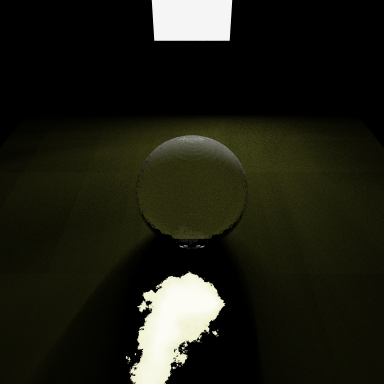
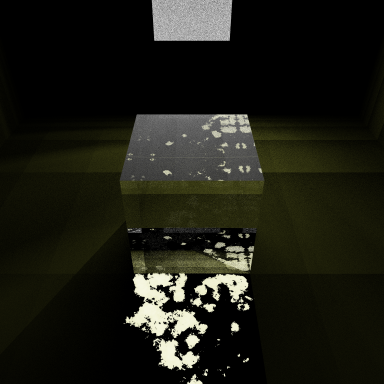
Added (back)projection

diff --git a/projection/plane.cpp b/projection/plane.cpp
@@ -1,0 +1,24 @@
+#include "plane.h"
+
+Plane::Plane(Eigen::Vector3f origin, Eigen::Vector3f normal)
+    :origin(origin), normal(normal)
+{
+
+}
+
+Eigen::Vector3f Plane::project(const Eigen::Vector3f& pointOrigin, const Eigen::Vector3f& point3D) {
+    auto d = point3D - pointOrigin;
+    assert(d.dot(normal) != 0);
+    auto t = -(origin - pointOrigin).dot(normal) / d.dot(normal);
+    assert(t >= 0);
+
+    return pointOrigin + t * d;
+}
+
+Eigen::Vector3f Plane::backProject(const Scene& scene, const Eigen::Vector3f& pointOrigin, const Eigen::Vector3f& point2D) {
+    IntersectionInfo i;
+    Ray ray(pointOrigin, point2D - pointOrigin);
+    bool intersect = scene.getIntersection(ray, &i);
+    assert(intersect);
+    return i.hit;
+}

diff --git a/projection/plane.h b/projection/plane.h
@@ -1,0 +1,20 @@
+#ifndef PLANE_H
+#define PLANE_H
+
+#include <Eigen/Dense>
+#include "scene/scene.h"
+
+class Plane
+{
+public:
+    Plane(Eigen::Vector3f origin, Eigen::Vector3f normal);
+
+    Eigen::Vector3f project(const Eigen::Vector3f& origin, const Eigen::Vector3f& point3D);
+    Eigen::Vector3f backProject(const Scene& scene, const Eigen::Vector3f& origin, const Eigen::Vector3f& point2D);
+
+private:
+    Eigen::Vector3f origin;
+    Eigen::Vector3f normal;
+};
+
+#endif // PLANE_H
